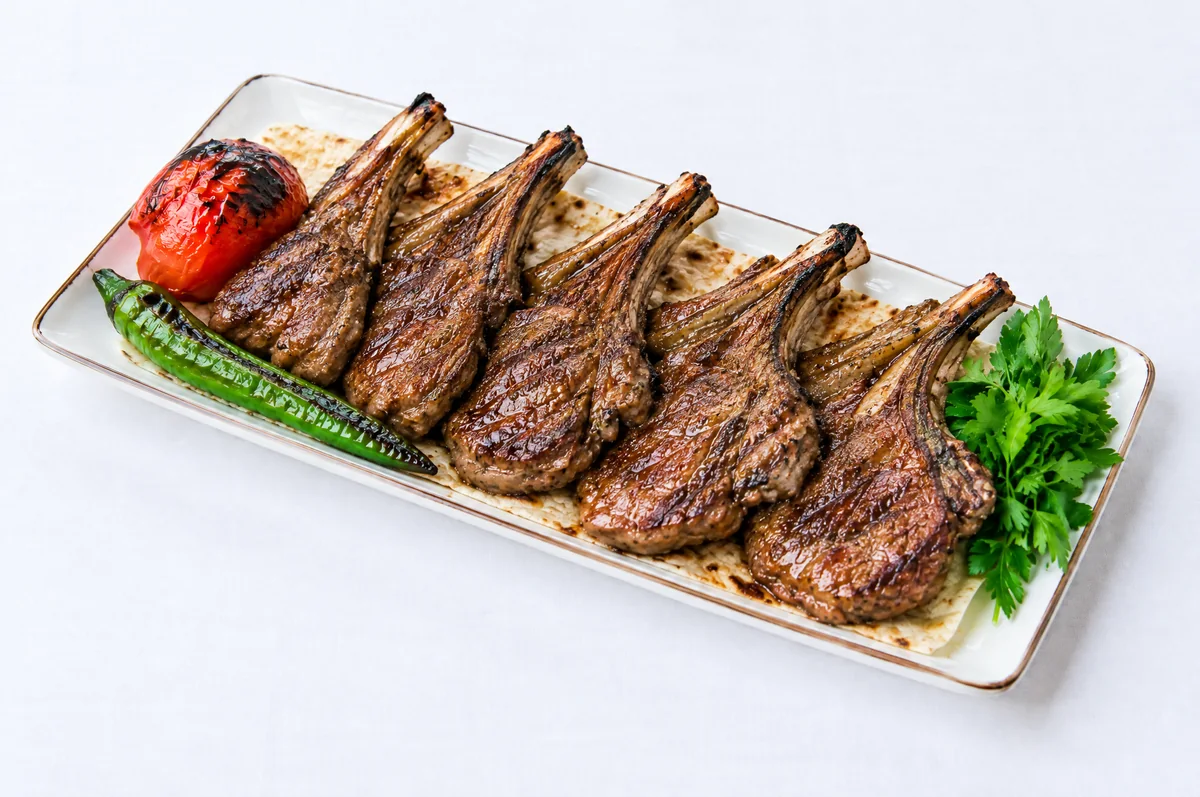
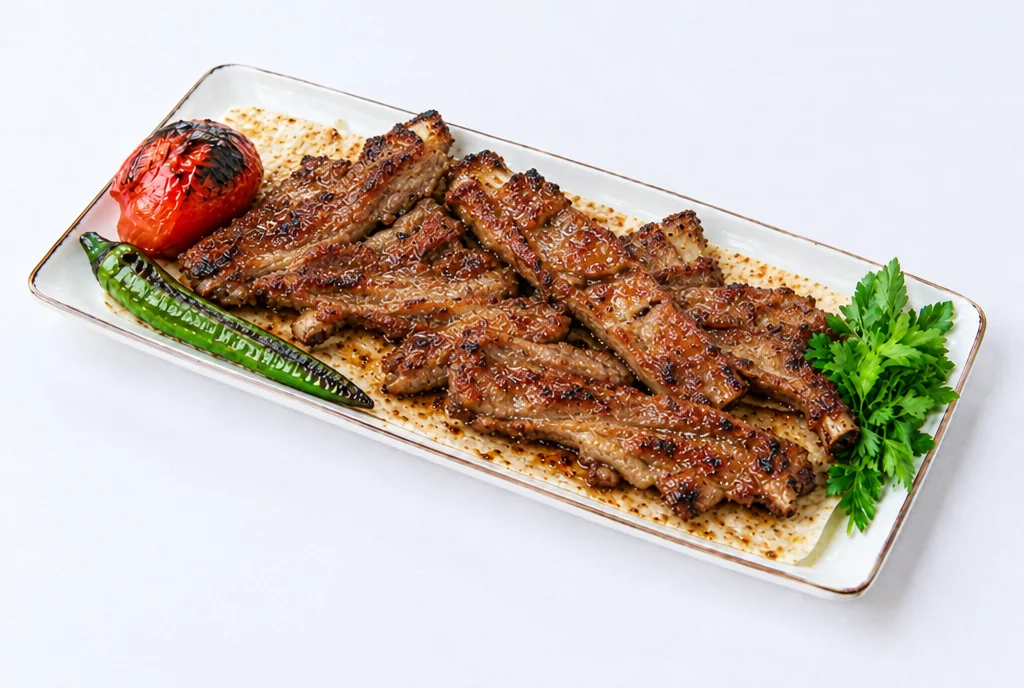
chore: update product images 241 and 245

Changed region(s): [[0.0312, 0.1221, 0.9688, 0.8852], [0.25, 0.0916, 0.2812, 0.1221], [0.1875, 0.0916, 0.2188, 0.1221]]

diff --git a/src/components/menu/MenuExperiencePage.tsx b/src/components/menu/MenuExperiencePage.tsx
@@ -304,6 +304,8 @@ function ScrollRail({ children, className = "", ariaLabel }: { children: ReactNo
 const menuImageVersionByItemId: Readonly<Partial<Record<MenuItem["id"], string>>> = {
   "207": "20261028-2",
   "208": "20261028-2",
+  "241": "20261028-1",
+  "245": "20261028-1",
 };
 
 function getMenuImageUrl(item: MenuItem, size: "320" | "640" | "1200") {
